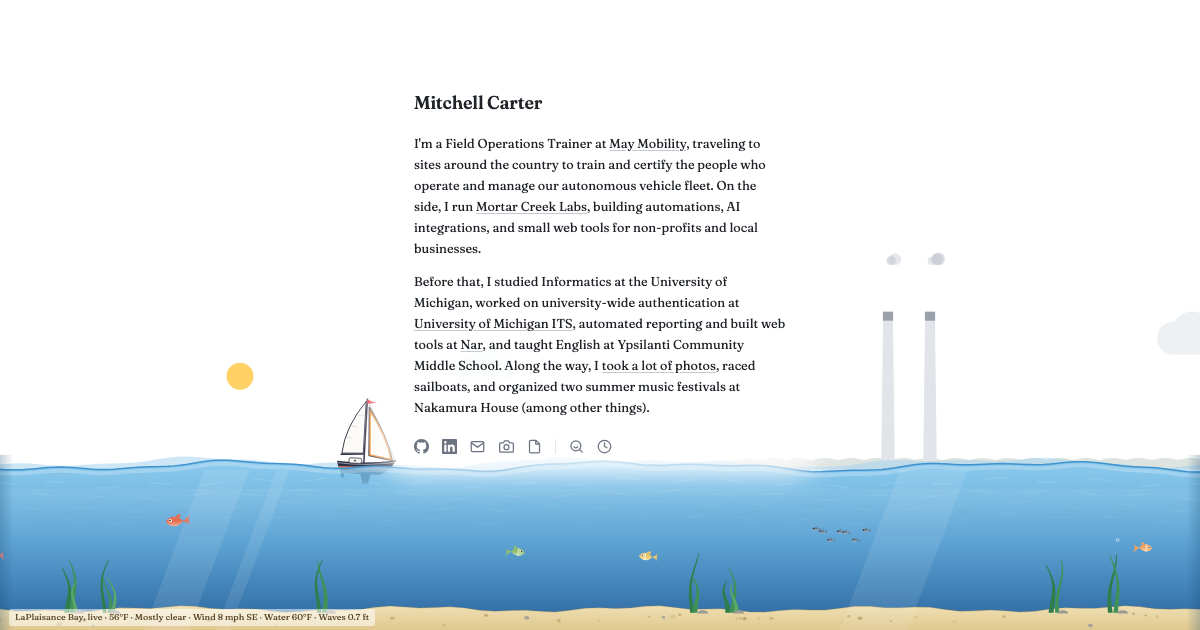
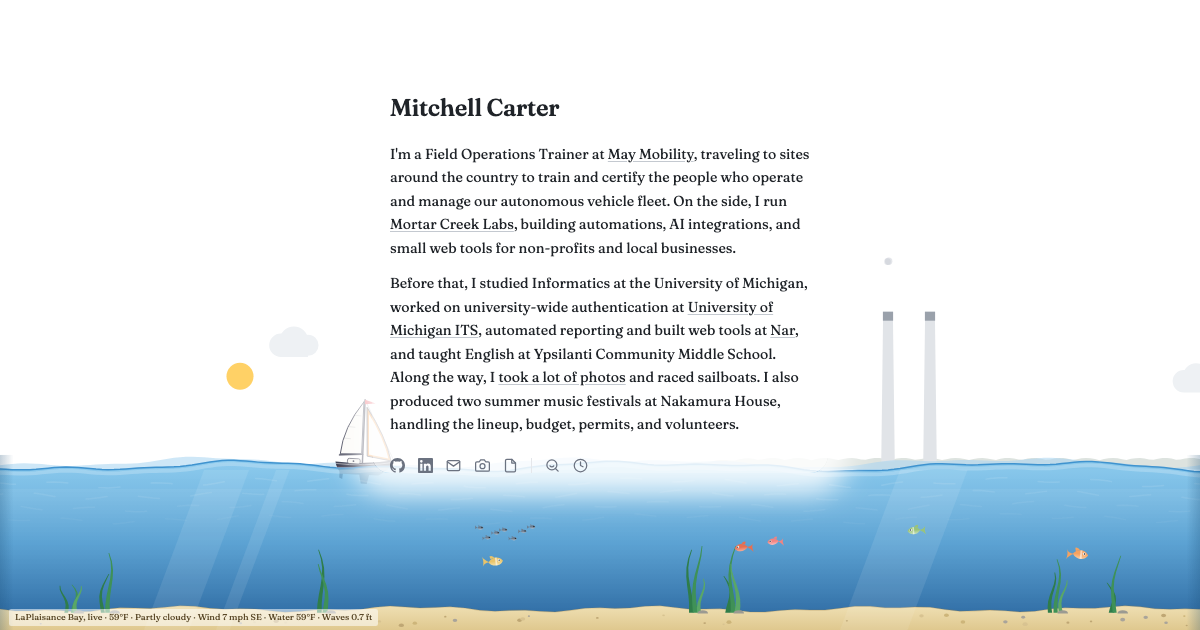
Rewrite festivals line, enlarge homepage text, and shorten phone lake
- Give the Nakamura House festivals their own sentence
- Bigger body text and name, slightly wider column
- Shorter lake on phones so the bio fits above it
- Refresh the link-preview image

diff --git a/assets/css/home.css b/assets/css/home.css
@@ -18,7 +18,7 @@ body {
 
 body {
   font:
-    17px/1.65 "Fraunces",
+    19px/1.65 "Fraunces",
     Georgia,
     serif;
   color: #1f2328;
@@ -29,7 +29,7 @@ body {
 main {
   position: relative;
   z-index: 1;
-  max-width: 34rem;
+  max-width: 38rem;
   margin: 14vh auto 0;
   padding: 0 1.5rem;
   /* soft white backing so scenery behind the text never hurts legibility */
@@ -39,7 +39,7 @@ main {
 }
 
 h1 {
-  font-size: 1.5rem;
+  font-size: 2rem;
   font-weight: 600;
   letter-spacing: -0.01em;
   margin: 0 0 1.25rem;
@@ -117,10 +117,12 @@ a:focus-visible {
 
 @media (max-width: 640px) {
   body {
-    font-size: 16px;
+    font-size: 17px;
+    line-height: 1.6;
+    padding-bottom: calc(clamp(120px, 18vh, 260px) + 2rem);
   }
 
   main {
-    margin-top: 2.5rem;
+    margin-top: 1.75rem;
   }
 }

diff --git a/index.html b/index.html
@@ -50,9 +50,9 @@
         automated reporting and built web tools at
         <a href="https://narcannabis.com">Nar</a>, and taught English at
         Ypsilanti Community Middle School. Along the way, I
-        <a href="https://photos.mitchellcarter.dev">took a lot of photos</a>,
-        raced sailboats, and organized two summer music festivals at Nakamura
-        House.
+        <a href="https://photos.mitchellcarter.dev">took a lot of photos</a> and
+        raced sailboats. I also produced two summer music festivals at Nakamura
+        House, handling the lineup, budget, permits, and volunteers.
       </p>
 
       <nav class="socials" aria-label="Social links">

diff --git a/assets/js/lake.js b/assets/js/lake.js
@@ -36,7 +36,11 @@ let dirSign = 1; // +1 wind blowing east (left → right), -1 west
 let W, H, waterTop, sandTop;
 let k = 1; // scales the sky scenery and boat down on narrow (phone) screens
 
-const waterHeight = () => Math.max(140, Math.min(H * 0.26, 260));
+// shorter lake on phones so the bio fits above it (matches padding-bottom in home.css)
+const waterHeight = () =>
+  W <= 640
+    ? Math.max(120, Math.min(H * 0.18, 260))
+    : Math.max(140, Math.min(H * 0.26, 260));
 
 function resize() {
   const dpr = window.devicePixelRatio || 1;

diff --git a/CLAUDE.md b/CLAUDE.md
@@ -29,7 +29,7 @@ This is a modern personal portfolio website built with vanilla HTML, CSS, and Ja
 ## Homepage
 
 - Plain white page set in Fraunces (self-hosted at `assets/fonts/fraunces-latin.woff2`); text sits on a soft white backing so the scenery never hurts legibility
-- `lake.js` draws a full-viewport canvas: sky (sun/moon, clouds, DTE Monroe stacks with smoke) and a side-on "aquarium" lake at the bottom (boat, fish, seaweed, sand). Water height is `clamp(140px, 26vh, 260px)` and must match `padding-bottom` in `home.css`
+- `lake.js` draws a full-viewport canvas: sky (sun/moon, clouds, DTE Monroe stacks with smoke) and a side-on "aquarium" lake at the bottom (boat, fish, seaweed, sand). Water height is `clamp(140px, 26vh, 260px)` (`clamp(120px, 18vh, 260px)` at ≤640px) and must match `padding-bottom` in `home.css`
 - Live data for LaPlaisance Bay: Open-Meteo forecast (wind, clouds, rain/snow/fog, sunrise/sunset), Open-Meteo Marine (wave height), NOAA Toledo station 9063085 (water temp). Wind drives the boat, waves, and smoke; sunrise/sunset tint the water
 - Clicking above the water blows the boat away from the pointer and splashes; clicking below it only scatters nearby fish and releases bubbles
 - Respects `prefers-reduced-motion` (slower scene, no precipitation); scenery scales down below 900px wide
